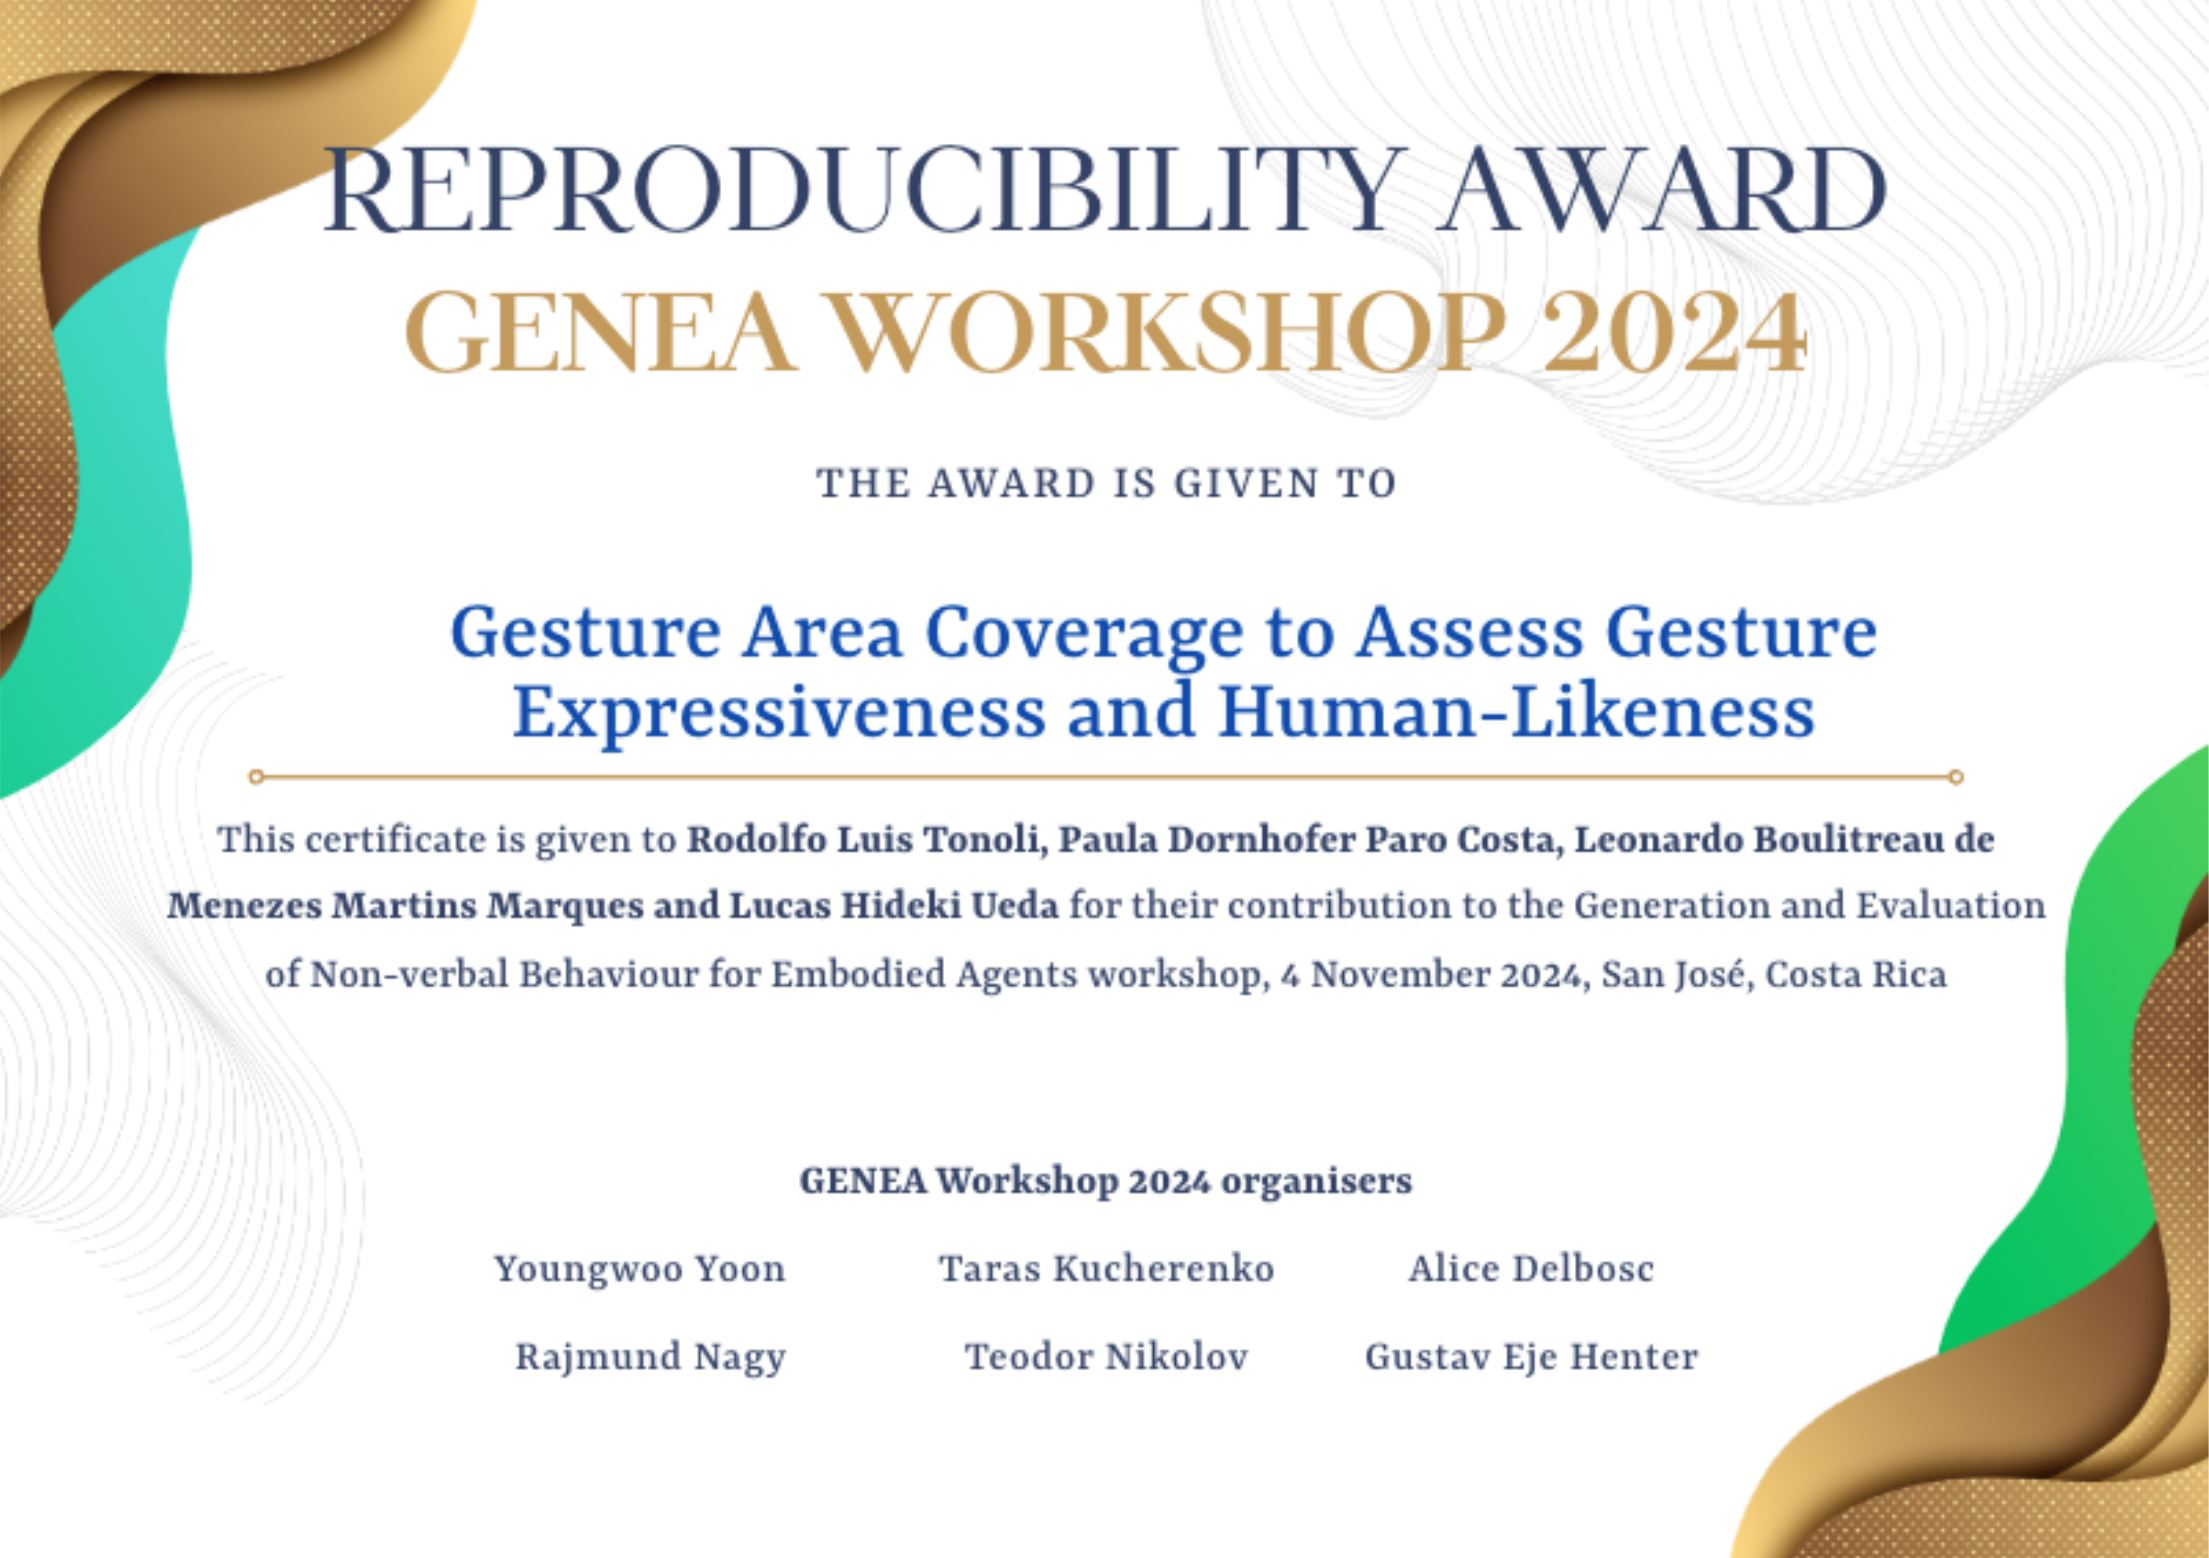
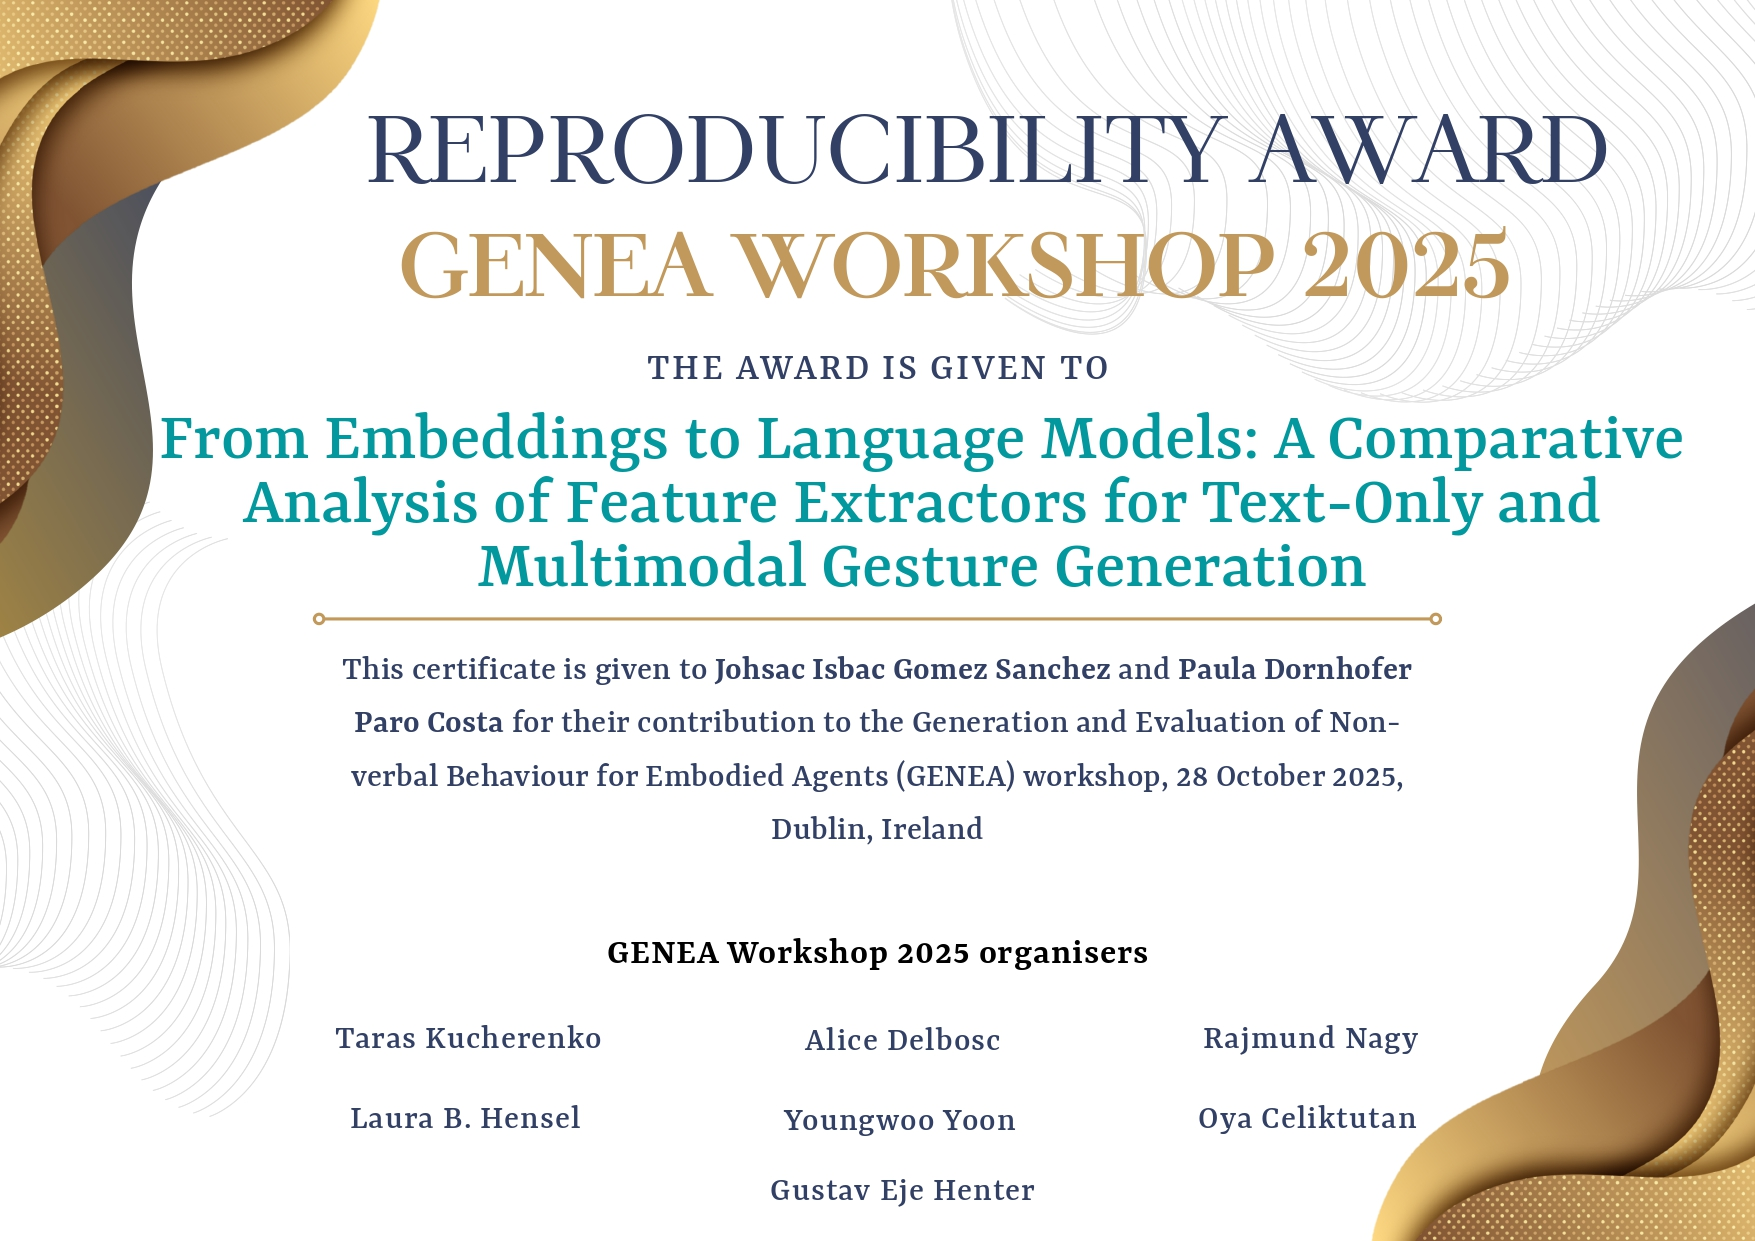
award

diff --git a/workshop/index.html b/workshop/index.html
@@ -463,19 +463,15 @@
           <li>data accessibility (ideal: all data used is publicly available)</li>
         </ul>
 
-        <!-- This year saw exceptional efforts in reproducibility across submissions, raising the overall standard of transparency and reliability in research.  
+        This year saw exceptional efforts in reproducibility across submissions, raising the overall standard of transparency and reliability in research.  
+        <br>
         <br>
         <div style="text-align: center; margin-top: 30px;">
-          The runner-up for this year's Reproducibility Award is: <a href="https://openreview.net/forum?id=m6FDIP5o4M" target="_blank"><b>Benchmarking Speech-Driven Gesture Generation Models for Generalization to Unseen Voices and Noisy Environments</b></a> by
-          <i>Johsac Isbac Gómez Sánchez, Kevin Adier Inofuente Colque, Leonardo Boulitreau de Menezes Martins Marques, Paula Dornhofer Paro Costa, and Rodolfo Luis Tonoli</i>.  
+          This year's award is awarded to: <a href="https://openreview.net/forum?id=DhgHmACPpI" target="_blank"><b>From Embeddings to Language Models: A Comparative Analysis of Feature Extractors for Text-Only and Multimodal Gesture Generation</b></a> <br> by
+          <i>Johsac Isbac Gomez Sanchez, Paula Dornhofer Paro Costa</i>. <br><br>
+          <img src="/2025/img/award.jpg" alt="reproducibility award" width=600>
         </div>
-        <br>
-        <div style="text-align: center; margin-top: 30px;">
-          This year's award is awarded to: <a href="https://openreview.net/forum?id=Iso5lbByDI" target="_blank"><b>Gesture Area Coverage to Assess Gesture Expressiveness and Human-Likeness</b></a> <br> by
-          <i>Rodolfo Luis Tonoli, Paula Dornhofer Paro Costa, Leonardo Boulitreau de Menezes Martins Marques, and Lucas Hideki Ueda</i>. <br><br>
-          <img src="/2025/img/award.JPG" alt="reproducibility award" width=600>
-        </div>
-        <br><br> -->
+        <br><br>
       </div>
 
     </section>
